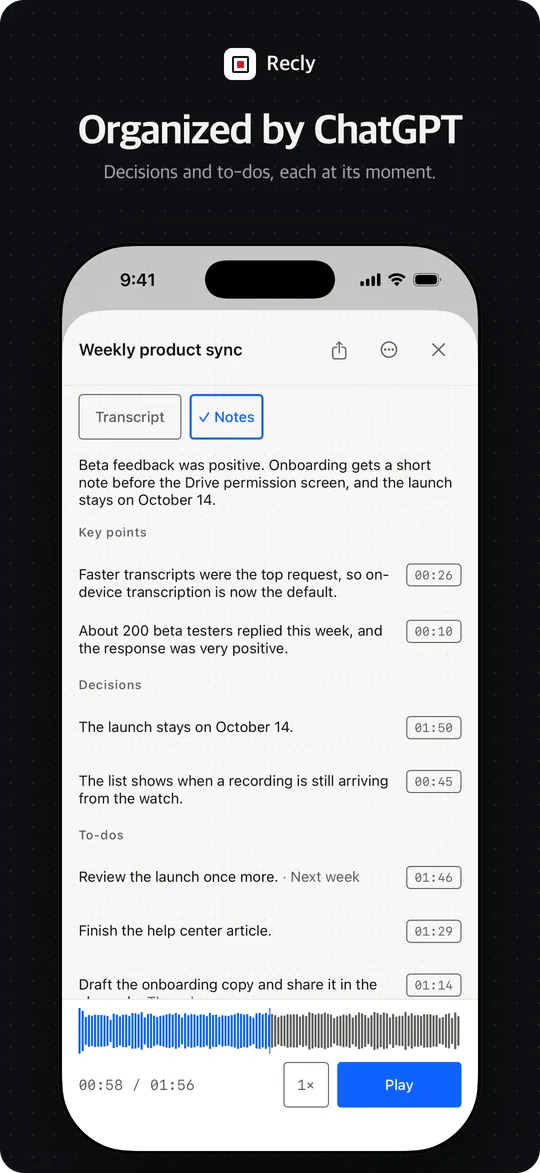
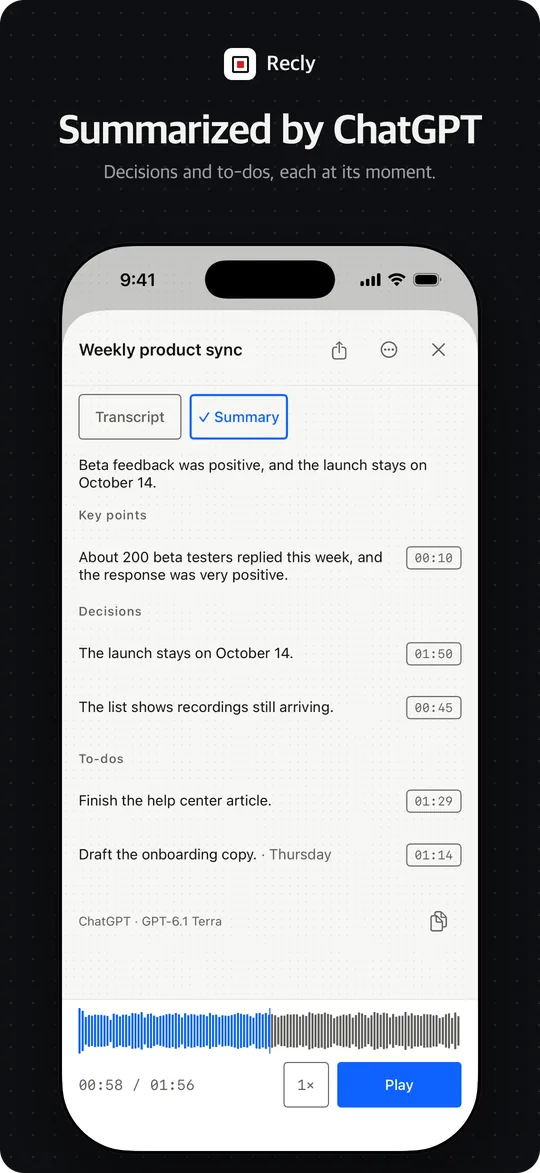
Promo and store images from the 0.3.1 apps: Summary in place of Notes
The detail's chip for ChatGPT's result reads Summary (요약) since the memo
landed, so the iPhone and Android Details and Summary captures are taken
again from the 0.3.1 apps with the same demo recordings: the README and
recly.dev images 02 and 03, and the Play phone images 02 and 03. The
third caption follows the new name, "Summarized by ChatGPT" / "ChatGPT가
요약합니다", in both templates, the README alt texts and the site.

The other images are unchanged: their screens did not change, and the
Play renders came out pixel-identical. The Play README notes the
punch-hole cutout a fresh emulator needs for the status bar, and that
demo-bar.sh runs once.

diff --git a/docs/ko/index.html b/docs/ko/index.html
@@ -285,7 +285,7 @@
     <ul class="gallery">
       <li><picture><source srcset="/design/screenshots/ko/01-record-for-your-ai.webp" type="image/webp"><img src="/design/screenshots/ko/01-record-for-your-ai.png" width="540" height="1173" loading="lazy" alt="내 AI를 위한 녹음기: 이미 차고 있는 시계를 탭해 녹음하세요"></picture></li>
       <li><picture><source srcset="/design/screenshots/ko/02-transcribe.webp" type="image/webp"><img src="/design/screenshots/ko/02-transcribe.png" width="540" height="1173" loading="lazy" alt="기기에서 바로 전사: 읽으면서 원하는 순간으로 이동"></picture></li>
-      <li><picture><source srcset="/design/screenshots/ko/03-notes.webp" type="image/webp"><img src="/design/screenshots/ko/03-notes.png" width="540" height="1173" loading="lazy" alt="ChatGPT가 정리합니다: 결정과 할 일을, 그 말이 나온 순간과 함께"></picture></li>
+      <li><picture><source srcset="/design/screenshots/ko/03-notes.webp" type="image/webp"><img src="/design/screenshots/ko/03-notes.png" width="540" height="1173" loading="lazy" alt="ChatGPT가 요약합니다: 결정과 할 일을, 그 말이 나온 순간과 함께"></picture></li>
       <li><picture><source srcset="/design/screenshots/ko/04-list.webp" type="image/webp"><img src="/design/screenshots/ko/04-list.png" width="540" height="1173" loading="lazy" alt="내 AI가 바로 읽는 전사본: Drive를 읽는 AI라면 바로 노트로 만듭니다"></picture></li>
     </ul>
   </div>

diff --git a/docs/index.html b/docs/index.html
@@ -285,7 +285,7 @@
     <ul class="gallery">
       <li><picture><source srcset="/design/screenshots/en/01-record-for-your-ai.webp" type="image/webp"><img src="/design/screenshots/en/01-record-for-your-ai.png" width="540" height="1173" loading="lazy" alt="Record for your AI: tap the watch you already wear"></picture></li>
       <li><picture><source srcset="/design/screenshots/en/02-transcribe.webp" type="image/webp"><img src="/design/screenshots/en/02-transcribe.png" width="540" height="1173" loading="lazy" alt="Transcribe on device: read along, then jump to any moment"></picture></li>
-      <li><picture><source srcset="/design/screenshots/en/03-notes.webp" type="image/webp"><img src="/design/screenshots/en/03-notes.png" width="540" height="1173" loading="lazy" alt="Organized by ChatGPT: decisions and to-dos, each at its moment"></picture></li>
+      <li><picture><source srcset="/design/screenshots/en/03-notes.webp" type="image/webp"><img src="/design/screenshots/en/03-notes.png" width="540" height="1173" loading="lazy" alt="Summarized by ChatGPT: decisions and to-dos, each at its moment"></picture></li>
       <li><picture><source srcset="/design/screenshots/en/04-list.webp" type="image/webp"><img src="/design/screenshots/en/04-list.png" width="540" height="1173" loading="lazy" alt="Ready for your AI: any AI that can read your Drive can make notes"></picture></li>
     </ul>
   </div>

diff --git a/scripts/app-store/promo.html b/scripts/app-store/promo.html
@@ -87,17 +87,17 @@
     en: {
       1: ['Record for your AI', 'Tap the watch you already wear.'],
       2: ['Transcribe on device', 'Read along, then jump to any moment.'],
-      3: ['Organized by ChatGPT', 'Decisions and to-dos, each at its moment.'],
+      3: ['Summarized by ChatGPT', 'Decisions and to-dos, each at its moment.'],
       4: ['Ready for your AI', 'Any AI that can read your Drive can make notes.'],
     },
     ko: {
       1: ['내 AI를 위한 녹음기', '이미 차고 있는 시계를 탭해 녹음하세요'],
       2: ['기기에서 바로 전사', '읽으면서 원하는 순간으로 이동'],
-      3: ['ChatGPT가 정리합니다', '결정과 할 일을, 그 말이 나온 순간과 함께'],
+      3: ['ChatGPT가 요약합니다', '결정과 할 일을, 그 말이 나온 순간과 함께'],
       4: ['내 AI가 바로 읽는 전사본', 'Drive를 읽는 AI라면 바로 노트로 만듭니다'],
     },
   };
-  // 1 the Record tab with the watch, 2 a transcript after its second timestamp was tapped, 3 the same recording's notes, 4 the list.
+  // 1 the Record tab with the watch, 2 a transcript after its second timestamp was tapped, 3 the same recording's summary, 4 the list.
   const SCREEN = { 1: 'record', 2: 'detail', 3: 'notes', 4: 'list' };
   if (store) document.querySelector('.card').style.borderRadius = '0';
   const [h1, sub] = COPY[lang][shot];

diff --git a/scripts/play-store/screenshot.html b/scripts/play-store/screenshot.html
@@ -74,14 +74,14 @@
     en: {
       1: ['Record for <em>your AI</em>', 'Tap the watch you already wear.'],
       2: ['Transcribe on device', 'On 8 GB phones, or with a service you pick.'],
-      3: ['Organized by ChatGPT', 'Decisions and to-dos, each at its moment.'],
+      3: ['Summarized by ChatGPT', 'Decisions and to-dos, each at its moment.'],
       4: ['Record in one tap', 'Or from Quick Settings or a home screen widget.'],
       5: ['Ready for <em>your AI</em>', 'Any AI that can read your Drive can make notes.'],
     },
     ko: {
       1: ['내 <em>AI</em>를 위한 녹음기', '이미 차고 있는 시계를 탭해 녹음하세요'],
       2: ['기기에서 바로 전사', 'RAM 8GB 휴대폰에서, 또는 고른 서비스로'],
-      3: ['ChatGPT가 정리합니다', '결정과 할 일을, 그 말이 나온 순간과 함께'],
+      3: ['ChatGPT가 요약합니다', '결정과 할 일을, 그 말이 나온 순간과 함께'],
       4: ['탭 한 번으로 녹음', '빠른 설정 타일이나 홈 화면 위젯에서도'],
       5: ['내 <em>AI</em>가 바로 읽는 전사본', 'Drive를 읽는 AI라면 바로 노트로 만듭니다'],
     },

diff --git a/scripts/play-store/README.md b/scripts/play-store/README.md
@@ -40,6 +40,10 @@ iPhone, Apple Watch or iCloud, and on-device transcription only on phones with 8
    `meta.json`, a `transcript.json` whose segment times are the real offsets in that audio, and job rows marked
    uploaded and transcribed. The transcripts are sample text, not transcription output.
 3. **Phone captures.** `push.sh <dir>` replaces the app's data with the seed; `demo-bar.sh` sets the status bar.
+   First give the emulator a punch-hole cutout, or its status bar is too short and clips the clock:
+   `adb shell cmd overlay enable-exclusive --category com.android.internal.display.cutout.emulation.hole`. That
+   restarts the system UI, so run `demo-bar.sh` after it, once: a second run draws a second Wi-Fi icon (send
+   `-e command exit` to the demo broadcast to reset). Wait for the waveform to load before capturing a Details screen.
    Time zone, the demo recordings' (not the host's, which the emulator takes): `adb shell cmd alarm set-timezone Asia/Dubai`.
    Language: `adb shell cmd locale set-app-locales app.recly --locales ko-KR` (or `en-US`). Capture with
    `adb exec-out screencap -p` into `build/play-store-assets/captures/<lang>/`: `list` (List tab), `detail` (the first

diff --git a/README.ko.md b/README.ko.md
@@ -135,7 +135,7 @@ Android·Windows는 오픈소스 Qwen3-ASR 0.6B 모델로 하며, 이 모델은 
 <p align="center">
   <img src="docs/design/screenshots/ko/01-record-for-your-ai.png" width="24%" alt="내 AI를 위한 녹음기: 이미 차고 있는 시계를 탭해 녹음하세요">
   <img src="docs/design/screenshots/ko/02-transcribe.png" width="24%" alt="기기에서 바로 전사: 읽으면서 원하는 순간으로 이동">
-  <img src="docs/design/screenshots/ko/03-notes.png" width="24%" alt="ChatGPT가 정리합니다: 결정과 할 일을, 그 말이 나온 순간과 함께">
+  <img src="docs/design/screenshots/ko/03-notes.png" width="24%" alt="ChatGPT가 요약합니다: 결정과 할 일을, 그 말이 나온 순간과 함께">
   <img src="docs/design/screenshots/ko/04-list.png" width="24%" alt="내 AI가 바로 읽는 전사본: Drive를 읽는 AI라면 바로 노트로 만듭니다">
 </p>
 

diff --git a/README.md b/README.md
@@ -151,7 +151,7 @@ Settings and transcript formats are documented in [`spec/`](spec/).
 <p align="center">
   <img src="docs/design/screenshots/en/01-record-for-your-ai.png" width="24%" alt="Record for your AI: tap the watch you already wear">
   <img src="docs/design/screenshots/en/02-transcribe.png" width="24%" alt="Transcribe on device: read along, then jump to any moment">
-  <img src="docs/design/screenshots/en/03-notes.png" width="24%" alt="Organized by ChatGPT: decisions and to-dos, each at its moment">
+  <img src="docs/design/screenshots/en/03-notes.png" width="24%" alt="Summarized by ChatGPT: decisions and to-dos, each at its moment">
   <img src="docs/design/screenshots/en/04-list.png" width="24%" alt="Ready for your AI: any AI that can read your Drive can make notes">
 </p>
 
